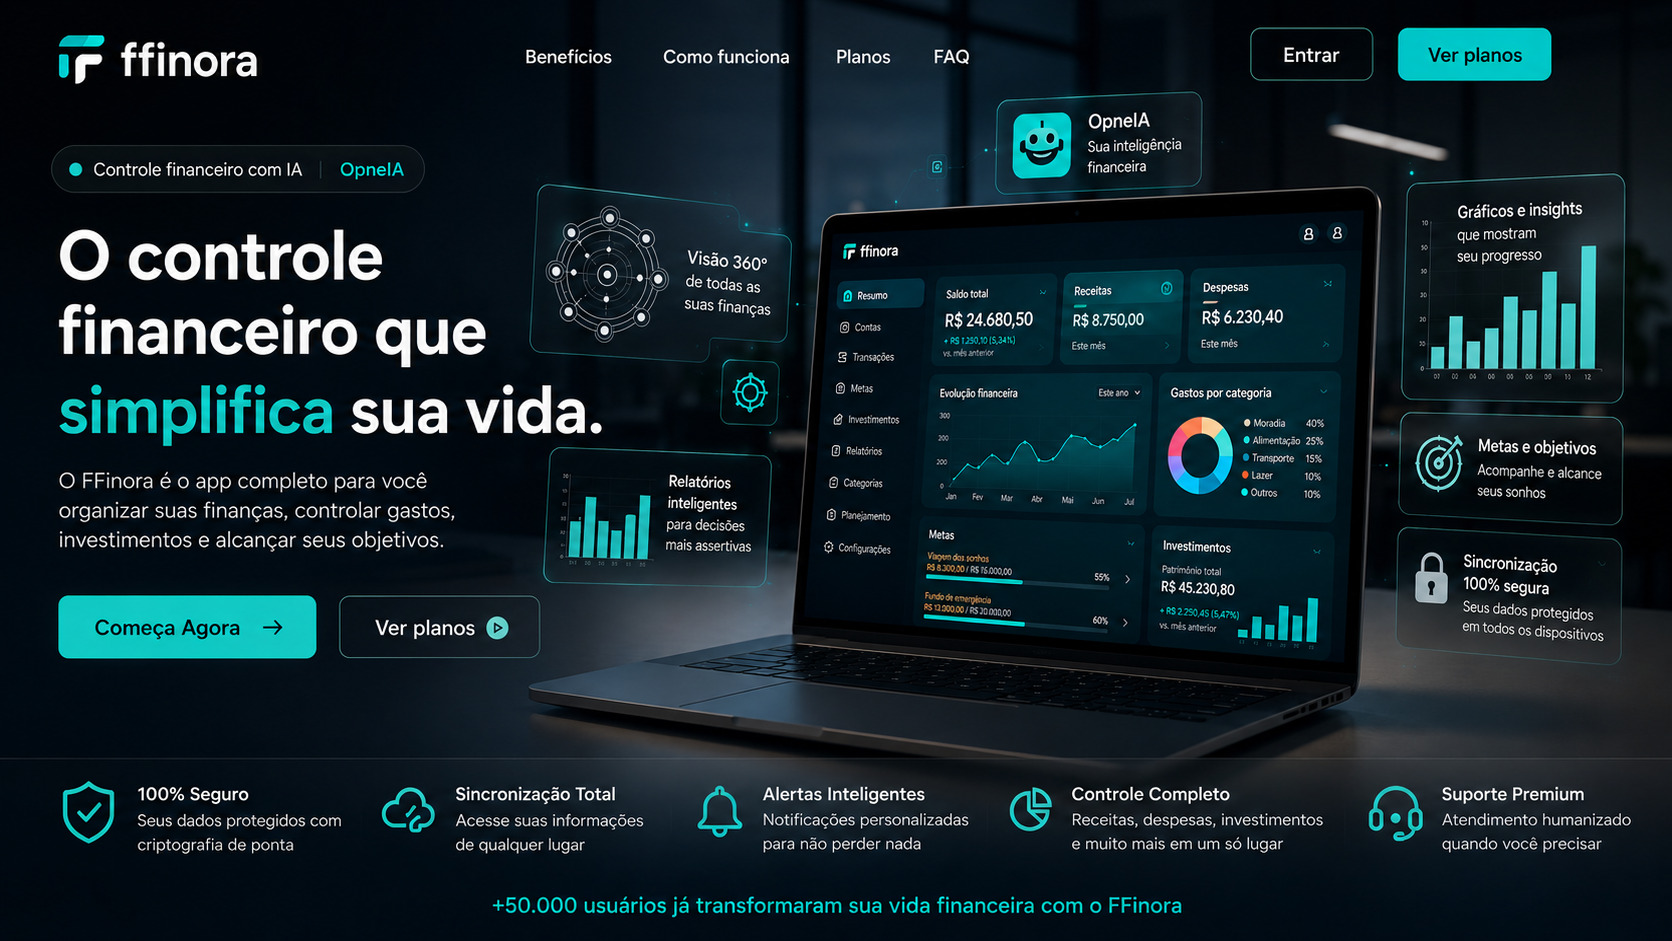
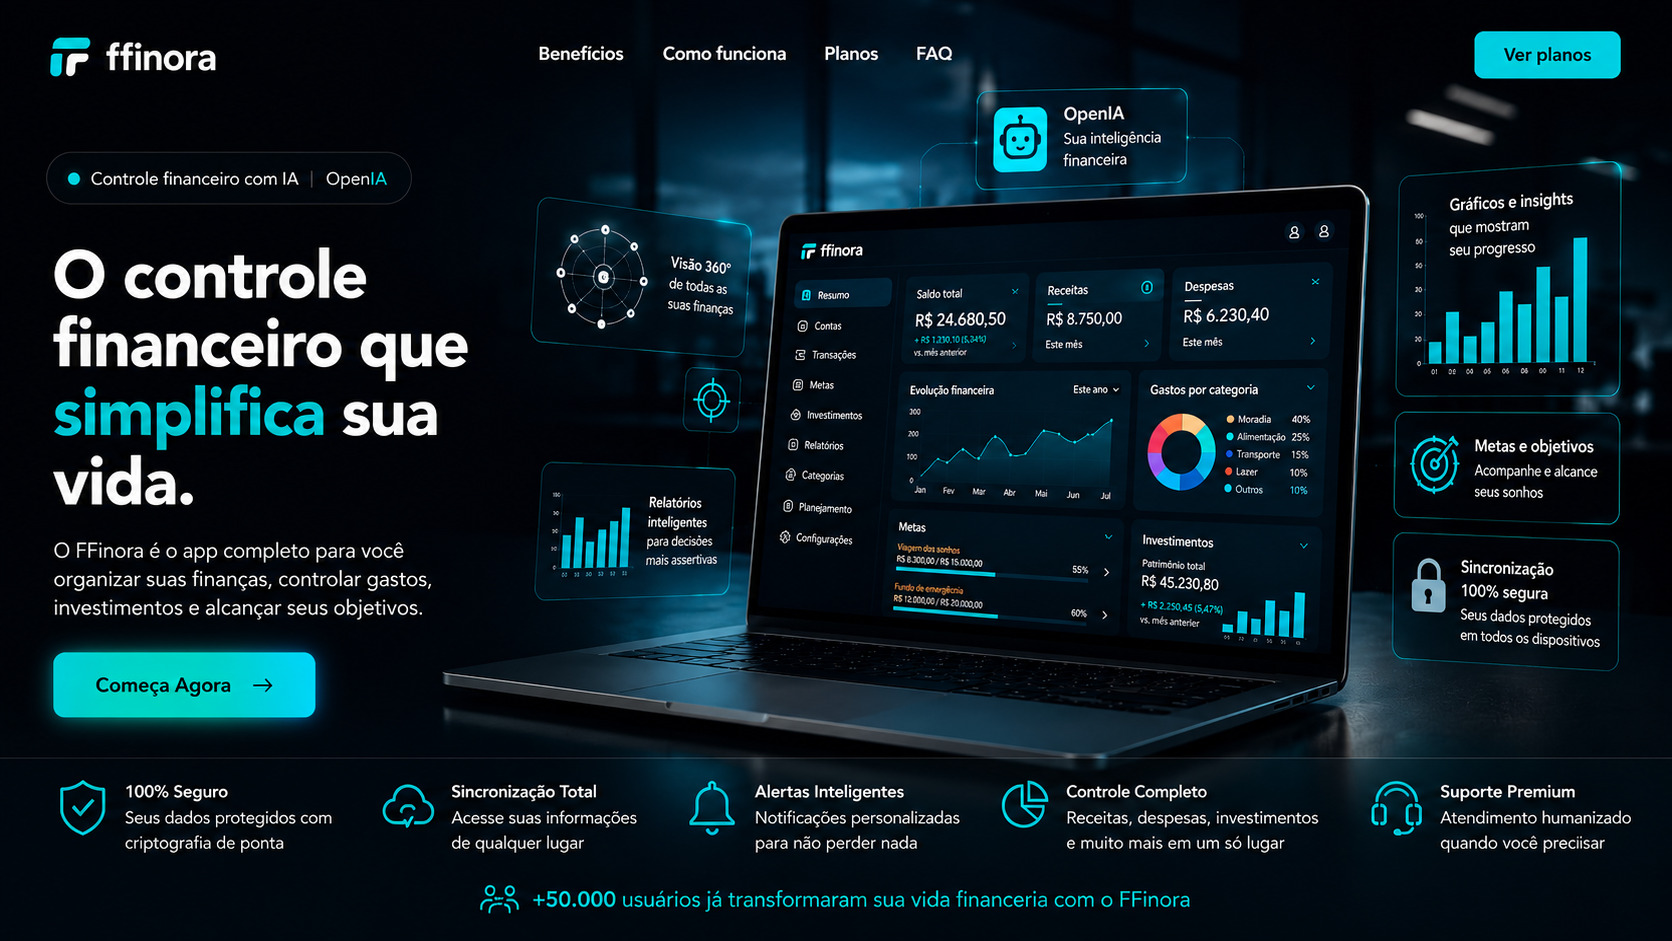
fix: remove botoes duplicados da hero

diff --git a/index.html b/index.html
@@ -46,8 +46,8 @@ img{max-width:100%;height:auto}
 .fade-up.visible{opacity:1;transform:translateY(0)}
 
 /* NAV */
-nav{position:fixed;top:0;left:0;right:0;z-index:1000;padding:0 24px;transition:all .3s;opacity:0;pointer-events:none;transform:translateY(-10px)}
-nav.scrolled{background:rgba(255,255,255,.97);box-shadow:0 2px 20px rgba(0,0,0,.08);backdrop-filter:blur(10px);opacity:1;pointer-events:auto;transform:translateY(0)}
+nav{position:fixed;top:0;left:0;right:0;z-index:1000;padding:0 24px;transition:background .3s,box-shadow .3s}
+nav.scrolled{background:rgba(255,255,255,.97);box-shadow:0 2px 20px rgba(0,0,0,.08);backdrop-filter:blur(10px)}
 .nav-inner{max-width:1140px;margin:0 auto;display:flex;align-items:center;justify-content:space-between;height:72px}
 .nav-logo{display:flex;align-items:center;gap:10px;font-size:1.4rem;font-weight:800;color:var(--white)}
 nav.scrolled .nav-logo{color:var(--gray-900)}
@@ -58,9 +58,9 @@ nav.scrolled .nav-links a{color:var(--gray-600)}
 .nav-links a:hover{color:var(--white)}
 nav.scrolled .nav-links a:hover{color:var(--primary)}
 .nav-cta{display:flex;align-items:center;gap:12px}
-.btn-nav-start{padding:10px 22px;font-size:.9rem;background:rgba(255,255,255,0.1);color:#fff;border:1px solid rgba(255,255,255,0.2);backdrop-filter:blur(10px)}
-.btn-nav-start:hover{background:rgba(255,255,255,0.2)}
-nav.scrolled .btn-nav-start{background:var(--primary);color:#fff;border-color:var(--primary)}
+.btn-nav-start{padding:10px 22px;font-size:.9rem;background:var(--primary);color:#fff;border:none;border-radius:50px;font-weight:600;transition:all .3s}
+.btn-nav-start:hover{background:var(--primary-dark);transform:translateY(-2px);box-shadow:0 4px 12px rgba(79,70,229,.3)}
+nav.scrolled .btn-nav-start{background:var(--primary);color:#fff}
 .hamburger{display:none;flex-direction:column;gap:5px;cursor:pointer;padding:4px}
 .hamburger span{display:block;width:24px;height:2px;background:var(--white);border-radius:2px;transition:all .3s}
 nav.scrolled .hamburger span{background:var(--gray-800)}
@@ -265,7 +265,7 @@ footer a{color:var(--primary-light);text-decoration:underline}
 <a href="#faq">FAQ</a>
 </div>
 <div class="nav-cta">
-<a href="#planos" class="btn btn-nav-start">Ver planos</a>
+<a href="#planos" class="btn btn-nav-start">Começa Agora</a>
 </div>
 <div class="hamburger" id="hamburger" onclick="toggleMenu()">
 <span></span><span></span><span></span>